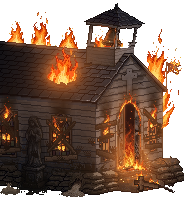
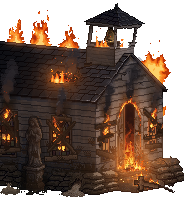
M5: angled base art complete - 0% idle ember strip, 25% stills from frame 1, 0% bell clapper
Claude-Session: https://claude.ai/code/session_01ApSBA2qCbQTkqfybzYcAyg

diff --git a/Assets/Base/_source/base-angled/scripts/anim0.py b/Assets/Base/_source/base-angled/scripts/anim0.py
@@ -1,0 +1,145 @@
+"""0% base idle strip (16 frames, 8 fps; no attack strip at 0%).
+Usage: python3 anim0.py <final/base_000_final_184x200.png> <out_prefix>
+Writes <out>_anim_16f.png (2944x200) and <out>_ember_mask.png (the ember pixels).
+Previews: preview0.py (its GIF writer keeps the ember colours exact; see gifkit.save_gif(exact=...)).
+
+What moves, and nothing else (rubble, bell, statue, sandbags and the cross itself are never touched):
+  * EMBERS (the warm pixels in the rubble + the cracks in the charred cross) are repainted in eight flat hot-ember
+    colours (RAMP: dull red -> red -> orange -> yellow-white). At REST they are dark: mostly the two dullest reds,
+    the hottest drawn pixels a dark red. Rest never changes.
+  * FLARES: a few small hot spots (a seed pixel + the ember pixels touching it) flare to orange / yellow for a few
+    frames and die back, each at its own moment. No patch pulses as a whole and nothing travels across the art.
+    Two of them are the ember cracks on the cross.
+  * FLOATING EMBERS: single pixels that lift off an ember, rise with a slight wobble and cool from yellow to dark
+    red (same ramp, never grey) before they go out.
+Jeremy's rules (2026-11-22): warm hot-ember colours; the pulse must not flow through the artwork; far fewer embers
+pulsing and more random; dark embers show most, with an occasional flicker from a few to the lighter colour; a few
+floating embers; one or two embers on the cross flicker; no grey anywhere in the embers or the floating embers.
+Every event wraps round the loop (frame index modulo 16), so the strip repeats without a jump."""
+import math, os, sys
+import numpy as np
+from PIL import Image
+from scipy import ndimage as ndi
+
+src, out = sys.argv[1], sys.argv[2]
+N = int(os.environ.get("FRAMES", 16))
+SEED = int(os.environ.get("SEED", 11))
+N_FLARES = int(os.environ.get("FLARES", 5))      # hot spots in the rubble (the two on the cross come on top)
+N_SPARKS = int(os.environ.get("SPARKS", 8))
+TAU = math.tau
+
+U = np.array(Image.open(src).convert("RGBA")).astype(float)
+H, W = U.shape[:2]
+r, g, b, a = (U[..., i] for i in range(4))
+yy, xx = np.mgrid[0:H, 0:W]
+
+# the eight flat ember colours, coldest to hottest
+RAMP = np.array([(58, 18, 14), (92, 24, 15), (128, 34, 17), (168, 50, 20),
+                 (208, 84, 26), (240, 128, 38), (255, 176, 66), (255, 220, 130)], np.uint8)
+TOP = len(RAMP) - 1
+
+# ember pixels: clearly warm (red well above green and blue), opaque, not the right-hand sandbag
+sat = (r - np.maximum(g, b)) / np.maximum(r, 1)
+EMBER = (a == 255) & (r > 60) & (sat > 0.28)
+EMBER &= ~((xx >= 152) & (xx <= 172) & (yy >= 155) & (yy <= 170))
+CROSS = EMBER & (yy >= 170)
+LAB, NPATCH = ndi.label(ndi.binary_dilation(EMBER, iterations=1)); LAB = LAB * EMBER
+
+# rest level per pixel from how bright it was drawn (ranked among the embers): mostly dark
+lum = (r + g + b) / 3
+rank = np.zeros((H, W)); vals = np.sort(lum[EMBER])
+rank[EMBER] = np.searchsorted(vals, lum[EMBER]) / max(1, len(vals) - 1)
+REST = np.zeros((H, W), int)
+REST[EMBER & (rank >= 0.45)] = 1
+REST[EMBER & (rank >= 0.85)] = 2                  # nothing rests brighter than dark red: only flares reach orange
+REST[CROSS] = 2                                   # the cross cracks: a steady dark red
+
+rng = np.random.default_rng(SEED)
+
+# ---- flares: seed pixels spread over the rubble (hotter drawn pixels more likely), at least MIN_D apart
+MIN_D = 9
+cand = [(int(y), int(x)) for y, x in zip(*np.nonzero(EMBER & ~CROSS))]
+wts = np.array([0.15 + rank[y, x] ** 2 for y, x in cand]); wts /= wts.sum()
+seeds = []
+for idx in rng.choice(len(cand), size=len(cand), replace=False, p=wts):
+    y, x = cand[idx]
+    if all(max(abs(y - sy), abs(x - sx)) >= MIN_D for sy, sx in seeds): seeds.append((y, x))
+    if len(seeds) == N_FLARES: break
+cy, cx = np.nonzero(CROSS)
+cross_seeds = []
+for y, x in zip(cy, cx):                           # one seed per cross crack
+    if all(LAB[y, x] != LAB[sy, sx] for sy, sx in cross_seeds): cross_seeds.append((int(y), int(x)))
+seeds += cross_seeds[:2]
+
+ENV = [(0.45, 1.0, 0.75, 0.45, 0.2), (0.6, 1.0, 0.6, 0.3), (0.3, 0.7, 1.0, 0.8, 0.5, 0.25), (0.5, 1.0, 0.8, 0.55, 0.3, 0.12)]
+starts = list(rng.choice(N, size=len(seeds), replace=False))          # every flare starts on a different frame
+FLARES = []
+for (sy, sx), f0 in zip(seeds, starts):
+    on_cross = bool(CROSS[sy, sx])
+    FLARES.append(dict(y=sy, x=sx, f0=int(f0), env=ENV[int(rng.integers(len(ENV)))],
+                       peak=int(5 if on_cross else rng.choice([5, 6, 6, 7])), cross=on_cross))
+
+def flare_levels(f):
+    """level per pixel in frame f: rest, lifted near each flare's seed while that flare is alight"""
+    L = REST.copy()
+    for fl in FLARES:
+        k = (f - fl["f0"]) % N
+        if k >= len(fl["env"]): continue
+        e = fl["env"][k]
+        d = np.maximum(np.abs(yy - fl["y"]), np.abs(xx - fl["x"]))
+        same = EMBER & (LAB == LAB[fl["y"], fl["x"]])
+        core = same & (d == 0); ring = same & (d == 1)
+        L[core] = np.maximum(L[core], np.round(REST[core] + e * (fl["peak"] - REST[core])).astype(int))
+        L[ring] = np.maximum(L[ring], np.round(REST[ring] + e * (fl["peak"] - 2 - REST[ring])).astype(int))
+    return np.clip(L, 0, TOP)
+
+# ---- floating embers: lift off an ember pixel (never the cross), rise, wobble, cool down the ramp
+SPARK_LEVELS = (7, 6, 6, 5, 4, 4, 3, 2, 2)
+ey, ex = np.nonzero(EMBER & ~CROSS)
+SPARKS = []
+for j in range(N_SPARKS):
+    q = int(rng.integers(len(ex)))
+    SPARKS.append(dict(f0=int(round(j * N / N_SPARKS + rng.integers(0, 2))) % N, life=int(rng.integers(6, 10)),
+                       x0=int(ex[q]), y0=int(ey[q]), rise=float(rng.uniform(10, 18)), dx=float(rng.uniform(-3, 3)),
+                       wob=float(rng.uniform(0.5, 1.2)), wph=float(rng.random() * TAU)))
+
+def spark_px(f):
+    res = []
+    for sp in SPARKS:
+        k = (f - sp["f0"]) % N
+        if k >= sp["life"]: continue
+        u = k / (sp["life"] - 1)
+        x = int(round(sp["x0"] + sp["dx"] * u + sp["wob"] * math.sin(sp["wph"] + u * 5)))
+        y = int(round(sp["y0"] - 2 - sp["rise"] * u))
+        res.append((y, x, SPARK_LEVELS[min(len(SPARK_LEVELS) - 1, int(u * len(SPARK_LEVELS)))]))
+    return res
+
+def frame(f):
+    o = U.astype(np.uint8).copy()
+    L = flare_levels(f)
+    o[..., :3][EMBER] = RAMP[L[EMBER]]
+    for y, x, lv in spark_px(f):
+        o[y, x, :3] = RAMP[lv]; o[y, x, 3] = 255
+    return o
+
+if __name__ == "__main__":
+    frames = [frame(f) for f in range(N)]
+    strip = Image.new("RGBA", (W * N, H), (0, 0, 0, 0))
+    for i, fr in enumerate(frames): strip.paste(Image.fromarray(fr, "RGBA"), (i * W, 0))
+    strip.save(out + f"_anim_{N}f.png")
+    Image.fromarray((EMBER * 255).astype(np.uint8)).save(out + "_ember_mask.png")
+    base = U.astype(np.uint8)
+    ramp_set = {tuple(int(v) for v in c) for c in RAMP}
+    outside = 0; off_ramp = 0; bright = []
+    for f, fr in enumerate(frames):
+        sp = np.zeros((H, W), bool)
+        for y, x, _ in spark_px(f): sp[y, x] = True
+        diff = (fr != base).any(axis=2)
+        outside += int((diff & ~EMBER & ~sp).sum())
+        for y, x in zip(*np.nonzero(EMBER | sp)):
+            if tuple(int(v) for v in fr[y, x, :3]) not in ramp_set: off_ramp += 1
+        bright.append(int((flare_levels(f)[EMBER] >= 4).sum()))
+    print("ember px", int(EMBER.sum()), "| rest levels 0/1/2:", [int((REST[EMBER] == k).sum()) for k in range(3)])
+    print("flares:", [(fl["x"], fl["y"], "f%d" % fl["f0"], "peak%d" % fl["peak"], "cross" if fl["cross"] else "") for fl in FLARES])
+    print("bright (orange or hotter) ember px per frame:", bright)
+    print("px changed outside embers + floating embers (must be 0):", outside, "| ember / floating px not in the 8 flat colours (must be 0):", off_ramp)

diff --git a/Assets/Base/_source/base-angled/scripts/preview0.py b/Assets/Base/_source/base-angled/scripts/preview0.py
@@ -1,0 +1,30 @@
+"""Previews for the 0% idle strip.  Usage: python3 preview0.py <strip_16f.png> <still.png> <out_prefix>
+Writes <out>_full.gif (2x), <out>_closeup.gif (4x of the rubble) and checks that every pixel the animation changes
+is shown in the GIFs in exactly the strip's colour (no palette greying)."""
+import sys, os
+import numpy as np
+from PIL import Image
+sys.path.insert(0, os.path.dirname(os.path.abspath(__file__)))
+import gifkit
+strip_p, still_p, out = sys.argv[1:4]
+W, H, N, BG = 184, 200, 16, (30, 34, 48)
+S = Image.open(strip_p).convert("RGBA"); base = np.array(Image.open(still_p).convert("RGBA"))
+def over(fr):
+    bg = Image.new("RGBA", fr.size, BG + (255,)); bg.alpha_composite(fr); return bg.convert("RGB")
+frames = [S.crop((i * W, 0, (i + 1) * W, H)) for i in range(N)]
+changed = [(np.array(f) != base).any(axis=2) for f in frames]
+exact = sorted({tuple(int(v) for v in np.array(f)[y, x, :3]) for f, c in zip(frames, changed) for y, x in zip(*np.nonzero(c))})
+BOX = (14, 88, 174, 196)
+full = [over(f).resize((W * 2, H * 2), Image.NEAREST) for f in frames]
+close = [over(f).crop(BOX).resize(((BOX[2] - BOX[0]) * 4, (BOX[3] - BOX[1]) * 4), Image.NEAREST) for f in frames]
+gifkit.save_gif(full, out + "_full.gif", 8, exact=exact); gifkit.save_gif(close, out + "_closeup.gif", 8, exact=exact)
+bad = 0; tot = 0
+g = Image.open(out + "_full.gif")
+for i in range(N):
+    g.seek(i); G = np.array(g.convert("RGB"))[::2, ::2]; T = np.array(over(frames[i]))
+    tot += int(changed[i].sum()); bad += int((changed[i] & (G != T).any(axis=2)).sum())
+g = Image.open(out + "_closeup.gif")
+for i in range(N):
+    g.seek(i); G = np.array(g.convert("RGB"))[::4, ::4]; T = np.array(over(frames[i]).crop(BOX)); c = changed[i][BOX[1]:BOX[3], BOX[0]:BOX[2]]
+    bad += int((c & (G != T).any(axis=2)).sum())
+print("animated colours kept exact:", len(exact), "| animated px:", tot, "| shown in a wrong colour in the GIFs (must be 0):", bad)

diff --git a/Assets/Base/_source/base-angled/scripts/stills25.py b/Assets/Base/_source/base-angled/scripts/stills25.py
@@ -1,0 +1,26 @@
+"""25% stills from frame 1 of the strips (2026-11-22; Jeremy: the stills show the opening smoke).
+Usage: python3 stills25.py <final/base_025_anim_final_16f.png> <flames2_16f.png> <d25/base_025_smoke_openings_layer_16f.png> <out_dir>
+  flames2_16f.png = the UNLIT 25% strip written by anim25.py (<out>_flames2_16f.png); run anim25.py first:
+    python3 anim25.py final/base_025_unlit_final_184x200.png d25/base_025_v3_unlit_flames.png <tmp>/b25
+  (its _lit_16f.png must equal d25/base_025_lit_wip_16f.png pixel for pixel; it did on 2026-11-22).
+Writes base_025_lit_final_184x200.png = frame 1 of the idle strip (firelight + opening smoke), and
+       base_025_unlit_final_184x200.png = frame 1 of the unlit strip with the same opening smoke composited the way
+       smoke25_openings.py does it."""
+import sys, os
+import numpy as np
+from PIL import Image
+anim_p, flames_p, smoke_p, out = sys.argv[1:5]
+W = 184
+def f0(p): return np.array(Image.open(p).convert("RGBA"))[:, :W].copy()
+lay = f0(smoke_p); A = lay[..., 3] / 255.0
+def comp(base):
+    o = base.copy(); on = A > 0; opq = on & (base[..., 3] == 255); sky = on & (base[..., 3] == 0)
+    assert not (on & (base[..., 3] > 0) & (base[..., 3] < 255)).any()
+    for j in range(3):
+        o[..., j][opq] = np.round(base[..., j][opq] * (1 - A[opq]) + lay[..., j][opq] * A[opq]).astype(np.uint8)
+        o[..., j][sky] = lay[..., j][sky]
+    o[..., 3][sky] = lay[..., 3][sky]
+    return o
+Image.fromarray(f0(anim_p)).save(os.path.join(out, "base_025_lit_final_184x200.png"))
+Image.fromarray(comp(f0(flames_p))).save(os.path.join(out, "base_025_unlit_final_184x200.png"))
+print("written to", out)

diff --git a/Assets/Base/_source/base-angled/scripts/d0_clapper.py b/Assets/Base/_source/base-angled/scripts/d0_clapper.py
@@ -1,0 +1,22 @@
+"""0% still: move the fallen bell's clapper to the right (Jeremy 2026-11-22: the bell is no longer upright -- it leans
+with its crown to the right -- so the clapper must hang straight down from the crown, right of the mouth's middle).
+Usage: python3 d0_clapper.py <d0/base_000_v5.png> <out.png>      (v5 = the still as approved on 2026-11-20)
+The drawn clapper (ball x117-119 y131-133, stem above it) is moved DX px right unchanged; its old place is closed
+with the mouth's own dark inside colours and the lower lip is carried through. Nothing else is touched."""
+import sys, os
+import numpy as np
+from PIL import Image
+src, dst = sys.argv[1], sys.argv[2]
+DX = int(os.environ.get("DX", 8))
+a = np.array(Image.open(src).convert("RGBA")); o = a.copy()
+CLAPPER = [(119, 129), (118, 130), (119, 130)] + [(x, y) for y in (131, 132, 133) for x in (117, 118, 119)]
+# close the old place: inside-of-the-mouth darks taken from the same rows just right of it, the lip carried through
+FILL = {(119, 129): (19, 20, 22), (118, 130): (16, 17, 19), (119, 130): (18, 19, 21),
+        (117, 131): (21, 21, 21), (118, 131): (23, 23, 22), (119, 131): (22, 22, 20),
+        (117, 132): (28, 28, 25), (118, 132): (24, 24, 25), (119, 132): (20, 20, 19),
+        (117, 133): (46, 43, 36), (118, 133): (31, 30, 26), (119, 133): (26, 25, 23)}
+for (x, y), c in FILL.items(): o[y, x, :3] = c
+for x, y in CLAPPER: o[y, x + DX] = a[y, x]
+Image.fromarray(o).save(dst)
+d = (o != a).any(axis=2); ys, xs = np.nonzero(d)
+print("px changed", int(d.sum()), "x", xs.min(), xs.max(), "y", ys.min(), ys.max())

diff --git a/Assets/Base/_source/base-angled/scripts/gifkit.py b/Assets/Base/_source/base-angled/scripts/gifkit.py
@@ -1,9 +1,18 @@
-"""Shared-palette GIF writer: one palette for every frame, no dithering, so still pixels never shift colour."""
+"""Shared-palette GIF writer: one palette for every frame, no dithering, so still pixels never shift colour.
+exact = RGB colours that must survive untouched (2026-11-22: at 0% the few bright ember / floating-ember pixels are so
+rare that the 256-colour reduction dropped them and showed them GREY in the preview; the strip itself was right).
+Pass every colour of small animated details there; they get their own palette slots."""
 from PIL import Image
-def save_gif(frames_rgb, name, fps):
+def save_gif(frames_rgb, name, fps, exact=None):
     W, H = frames_rgb[0].size
     mosaic = Image.new("RGB", (W, H * len(frames_rgb)))
     for i, f in enumerate(frames_rgb): mosaic.paste(f, (0, H * i))
-    pal = mosaic.quantize(colors=256, method=Image.Quantize.MEDIANCUT, dither=Image.Dither.NONE)
+    exact = [tuple(int(v) for v in c) for c in (exact or [])]
+    pal = mosaic.quantize(colors=256 - len(exact), method=Image.Quantize.MEDIANCUT, dither=Image.Dither.NONE)
+    if exact:
+        p = pal.getpalette()[:3 * (256 - len(exact))]
+        p += [0] * (3 * (256 - len(exact)) - len(p))
+        for c in exact: p += list(c)
+        pal = Image.new("P", (1, 1)); pal.putpalette(p)
     q = [f.quantize(palette=pal, dither=Image.Dither.NONE) for f in frames_rgb]
     q[0].save(name, save_all=True, append_images=q[1:], duration=1000 // fps, loop=0, optimize=False, disposal=1)

diff --git a/docs/ART_STYLE.md b/docs/ART_STYLE.md
@@ -30,14 +30,15 @@ Hit feedback: brightness flash on every real hit + a 2px side shake at most once
 
 ### Angled church base redraw (ART DONE 2026-11-20; NOT wired -- the game still loads the 80x200 front-only art above)
 - **Canvas:** 184x200 RGBA, drawn at 2x (368x400) on desktop; phones crop from the LEFT and keep ~94 art px (door, steps, belfry, flag). Camera: orthographic, yaw 35 deg, elevation 8 deg (eye level like the village), 9.6 px/ft; front faces right. Layout guides + scripts: `Assets/Base/_source/base-angled/scripts/`.
-- **Finals** (`_source/base-angled/final/`): `base_100`, `base_075` (86 see-through glow px: lantern + window beams), `base_050_unlit` + `base_050_anim_final_8f` (8 frames, 6 fps), `base_025_unlit` (flames, no firelight) + `base_025_lit` (still with light baked in), `base_000` (rubble). Statue mask: `d0/statue_mask_exact.png`.
+- **Finals** (`_source/base-angled/final/`): `base_100`, `base_075` (86 see-through glow px: lantern + window beams), `base_050_unlit` + `base_050_anim_final_8f` (8 frames, 6 fps), `base_025_unlit` (flames, no firelight) + `base_025_lit` (still with light baked in) -- both REBUILT 2026-11-22 from frame 1 of the strips (no flag, roof hole, standard bell, opening smoke; `scripts/stills25.py`), `base_000` (rubble; bell clapper moved 8 px right on 2026-11-22, `scripts/d0_clapper.py`, source before the move = `d0/base_000_v5.png`). Statue mask: `d0/statue_mask_exact.png`.
 - **Look:** white country church, neutral white siding (no blue cast), stained glass at full health, belfry with the bell centred and a small cross on the gable centred over the door, prayer statue, sandbags both sides of the steps, lantern post, survivor flag on the right corner.
 - **Rules (Jeremy):** boarded windows always vary (count, spacing, angles); damage, boards, mud and handprints are drawn ON TOP of the art, never pasted boxes; see-through glow only on light sources (lamps, fire); muted, gritty, never cartoonish; flames come OUT of openings (roof holes, windows, doorway), never stamped copies on surfaces.
 - **Fire method:** PixelLab inpaint-v3 over a mask at each opening, keep only the fire-coloured pixels; firelight = screen blend from a blurred mask of the actual flame pixels (warm surfaces near the fire, far side darker), held back only on the doorway's dark depths with a SOFT mask. Never additive light (shimmer).
-- **Animations (2026-11-21; 100 / 75 / 50 / 25 done, 0 next):** per state an idle strip and an "under attack" strip (bell rings; none for 0%), 16 frames x 184x200 = 2944x200, 8 fps. Scripts `_source/base-angled/scripts/`: `anim100.py`, `anim_base.py`, `anim50_16.py`, shared `bell.py` / `smoke.py` / `gifkit.py`. Rules (Jeremy): bell hangs under the roof point (x=110), symmetric, curved lip, swings evenly +-20 deg, post in front, ~30% lighter than the drawn bell; lantern swings on its bracket (whole-pixel shift) and flickers -- only light sources flicker (lantern, halo, beams, hole light, roof hole), never the surfaces they light; flag waves with the star intact; smoke = fire smoke (charcoal / sooty brown, dense at the mouth, moonlit billow tops, firelit underside), attached at the tip of its opening, every column different, front-wall smoke slower and darker; soot marks need smoke above them. GIF previews only through `gifkit.save_gif` (shared palette).
+- **Animations (2026-11-21/22; 100 / 75 / 50 / 25 / 0 all done):** per state an idle strip and an "under attack" strip (bell rings; none for 0%), 16 frames x 184x200 = 2944x200, 8 fps. Scripts `_source/base-angled/scripts/`: `anim100.py`, `anim_base.py`, `anim50_16.py`, shared `bell.py` / `smoke.py` / `gifkit.py`. Rules (Jeremy): bell hangs under the roof point (x=110), symmetric, curved lip, swings evenly +-20 deg, post in front, ~30% lighter than the drawn bell; lantern swings on its bracket (whole-pixel shift) and flickers -- only light sources flicker (lantern, halo, beams, hole light, roof hole), never the surfaces they light; flag waves with the star intact; smoke = fire smoke (charcoal / sooty brown, dense at the mouth, moonlit billow tops, firelit underside), attached at the tip of its opening, every column different, front-wall smoke slower and darker; soot marks need smoke above them. GIF previews only through `gifkit.save_gif` (shared palette).
 - **25% strips (2026-11-21, `final/base_025_anim_final_16f.png` + `base_025_attack_final_16f.png`; scripts `anim25.py`, `flamefx.py`, `firelight25.py`, `preview25.py`):** they differ from the 25% stills on purpose -- flag and pole gone (burned away), the big roof flame replaced by a roof hole (red glow inside, charred frame with breathing coals, three small tongues), smaller belfry and side-wall fires, standard bell in a belfry rebuilt from the 50% art. Flame rules (Jeremy): loose flame pieces drift UP and die out, never hover; every tongue moves; no dark slots or straight edges low in a flame; small fires are tongues that lick (bulge travels up, tongue stretches, tip breaks off, drops back; 8 frames); a floating piece is a small flame that shrinks evenly to nothing. Cinders: a few per opening (about the roof hole's 8), varied in brightness and colour, never on the sandbags, bottom two steps, cross or lower far-left window. Firelight: the lit still's recipe driven by each frame's flames through wide blurs (never per pixel), pulse about 12% of total light; the statue has a fixed extra light; window boards stay darker than the siding with a lit edge and a short shadow; the bell is lit by a multiply on its own colours (keeps its curve), brighter as it swings toward the flames. The two 25% stills must be regenerated from frame 1 of the idle strip.
 - **Smoke at 25%, from the openings (DONE 2026-11-22, in the strips; `scripts/smoke25_openings.py`):** six short columns (doorway, front-left window, front-right window, roof hole, far-left window, side window). Rules (Jeremy): every column leans the same way (tops to the right, 1 px across per 5 px up); a column may be short, or missing, where a fire sits above its opening; it starts at the flame tip of its opening (roof hole: from the coals, not the tongues) and never covers a flame or cinder pixel; heavier and darker than 50%, but smoke near a fire is lit by it, never sooty-black beside a flame; over the dark roof / side wall the column is firelit at its base (darker smoke does not show there); a column must never end on a straight line (start it behind the flame tip). Input = the smoke-free strips in `d25/` (never the finals).
 - **Smoke at 25%, the layer behind the church (DONE 2026-11-22; `final/base_025_smoke_layer_final_40f.png`, `scripts/smoke25_layer.py` + `smoke25_layer_pl.py`):** a separate sheet, 40 frames in an 8 x 5 grid, 304x136 art px each, 8 fps, top-left = the church frame's top-left; drawn directly behind the church and IN FRONT of the village (never behind the buildings, and it must not cover them). PixelLab drew the plume from Jeremy's reference ("Draft 2") and PixelLab animated it (frame by frame, at 1.5x size so the inner shapes survive); code only places, cleans, joins, retimes and lights. Rules (Jeremy): it rises from behind the whole roof line and from off the left edge, never from each visible flame, and leaves through the TOP edge of the screen (the church frame fills the canvas height); flat tones, hard edges, the in-game still's smoke colours; finer billows, not big flat lobes; no tiny specks; no balls, fingers, straight edges or triangles; it must billow and roll (never a drawing that slides), at an even speed everywhere; the fire lights the smoke near the flames with a flat colour swap whose edge moves with the flames and the billows; no line that stays in the same place in every frame. The code-only fallback (`scripts/smoke25.py`) was not needed. **Taller version = the sheet to wire (2026-11-22; `final/base_025_smoke_layer_tall_final_80f.png`, `scripts/smoke25_layer_tall.py` + `smoke25_layer_tall_pl.py`):** the game canvas is taller than the 400 px church on many screens (up to 711 px on a 4K screen), so the plume continues 170 art rows above the church frame's top: 80 frames in an 8 x 10 grid, 448x306 art px each (rows -170..135), 8 fps; top edge 340 px above the church frame's top, clipped by the canvas. PixelLab continued the same drawing upward and animated it in three more windows; the approved frames are inside it unchanged except their top-right corner. Extra rules learned: the plume is a band rising to the right with open sky on its upper left (the approved animation shows that sky in most frames); the upper part plays at the same speed as the lower (hence the 10 s loop); where two animations meet, the hand-over follows the smoke's outlines (never a straight row), and no piece may keep the same shape every time it appears (Jeremy spotted a fixed rounded corner).
+- **0% idle strip (DONE 2026-11-22, `final/base_000_anim_final_16f.png`, 16 frames, 8 fps, no attack strip; scripts `anim0.py` (strip) + `preview0.py` (GIFs + colour check); previews `d0/base_000_anim_full.gif` / `_closeup.gif`):** ONLY the embers and floating embers change; rubble, bell, statue, sandbags and the cross never do. Embers are repainted in eight flat hot-ember colours (dull red -> red -> orange -> yellow-white). Rules (Jeremy): warm hot-ember colours, never grey; at rest they are DARK (three dark reds, nothing rests at orange); only a few small hot spots (a seed pixel + its touching ember pixels, not whole patches) flare to orange / yellow for a few frames, each at its own moment -- no pulse flowing through the artwork; two of the flares are the ember cracks on the cross; eight single-pixel floating embers lift off the embers, rise 10-18 px with a slight wobble and cool down the same ramp. The fallen bell's clapper hangs straight down from the crown, right of the mouth's middle (the bell leans right). GIF previews: rare bright pixels get dropped by the 256-colour reduction and show GREY in the GIF while the strip is right -- pass their colours to `gifkit.save_gif(..., exact=[...])` (preview0.py does, and checks every animated pixel).
 
 ## Zombie Skins by Category (8 life domains)
 | Category | Zombie look |

diff --git a/docs/ROADMAP.md b/docs/ROADMAP.md
@@ -345,8 +345,8 @@ Scoped from a structured live playtest.
     - [x] 25% idle + attack strips -- DONE 2026-11-21 (Claude app, Fable 5.2; DECISIONS 2026-11-21 "25% base strips"): `final/base_025_anim_final_16f.png` + `base_025_attack_final_16f.png`, 16 frames, 8 fps. Moving flames, cinders, firelight that follows the flames, roof hole with coals (the big roof flame is gone), flag removed, standard bell (rings in the attack strip). NO smoke in the strips. Scripts: `anim25.py`, `flamefx.py`, `firelight25.py`, `preview25.py`.
     - [x] 25% smoke INSIDE the strips -- DONE 2026-11-22 (Claude app, Fable 5.2; DECISIONS 2026-11-22): six short columns (doorway, front-left, front-right, roof hole, far-left, side window), all leaning the same way, never over a flame or cinder pixel; baked into `final/base_025_anim_final_16f.png` + `base_025_attack_final_16f.png`. Script `smoke25_openings.py` (run it ONLY on the smoke-free strips kept in `d25/base_025_lit_wip_16f.png` / `base_025_attack_lit_wip_16f.png`).
     - [x] 25% smoke LAYER behind the church -- DONE 2026-11-22 (the PixelLab test worked; DECISIONS 2026-11-22): `final/base_025_smoke_layer_final_40f.png`, 40 frames in an 8 x 5 grid, 304x136 art px each, 8 fps; PixelLab drew the plume (Draft 2) and animated it, code places / cleans / joins / retimes / lights it (`smoke25_layer.py`, PixelLab calls in `smoke25_layer_pl.py`, mock `ingame_mock3.py`). In FRONT of the buildings, never behind them (Jeremy). The code-only fallback (`smoke25.py`) is no longer needed. EXTENDED UPWARD the same day for taller screens (the canvas is up to 711 px on a 4K screen; the church is 400 px): `final/base_025_smoke_layer_tall_final_80f.png` is the sheet to wire (`smoke25_layer_tall.py`, `smoke25_layer_tall_pl.py`); the 40-frame sheet stays as its approved lower part.
-    - [ ] Regenerate the two 25% stills (`base_025_unlit_final`, `base_025_lit_final`) from frame 1 of the idle strip: they still show the old fires (flag, big roof flame, tilted bell). Since 2026-11-22 the strips also carry the opening smoke: DECIDED 2026-11-22 after the wrap-up (Jeremy: "yes to smoke from the openings"; "the 25% should always show the smoke when it is active"): the stills show the opening smoke, so take frame 1 of the strips in `final/`.
-    - [ ] 0% idle strip only (slow ember glow; no attack strip).
+    - [x] DONE 2026-11-22 (Claude app, Opus 5.5; `scripts/stills25.py`; lit = frame 1 of the idle strip exactly, unlit = frame 1 of the unlit strip + the same opening smoke). Regenerate the two 25% stills (`base_025_unlit_final`, `base_025_lit_final`) from frame 1 of the idle strip: they still show the old fires (flag, big roof flame, tilted bell). Since 2026-11-22 the strips also carry the opening smoke: DECIDED 2026-11-22 after the wrap-up (Jeremy: "yes to smoke from the openings"; "the 25% should always show the smoke when it is active"): the stills show the opening smoke, so take frame 1 of the strips in `final/`.
+    - [x] 0% idle strip only (slow ember glow; no attack strip) -- DONE 2026-11-22 (Claude app, Opus 5.5 / Fable 5.2; DECISIONS 2026-11-22 "0% idle"): `final/base_000_anim_final_16f.png`, 16 frames, 8 fps; dark resting embers, a few small flares (two on the cross), eight floating embers; `scripts/anim0.py`. Also: bell clapper moved right on the 0% still (`final/base_000_final_184x200.png`, `scripts/d0_clapper.py`). ALL base art is now done: the wiring task below is next.
     - [ ] Wire into the game (Sonnet; also the 25% smoke layer as one more element behind `#base` once it exists): `Assets/Base/` stills + strips (all 16 frames / 2 s; show the attack strip while any zombie is currently dealing damage to the base, idle otherwise (Jeremy, 2026-11-21)), `#base` width + per-screen `--base-w` crop, barricade position, hero spotlight door centre, `baseAnim` test frame width, sw.js; phone + laptop check (HUD over the belfry). SMOKE LAYER (2026-11-22, taller sheet): one element directly behind `#base` and in front of the village (same z-index as `#base`, earlier in the DOM: with z-index auto it sits under the scenery and looks washed out); `final/base_025_smoke_layer_tall_final_80f.png`: 80 frames in a grid 8 across x 10 down, each 448x306 art px, 8 fps (10 s loop); on screen 896x612 px at 2x, left edge on the church frame's left edge, TOP EDGE 340 px ABOVE the church frame's top (frame rows -170..135, row 0 = church top), clipped by the canvas top; it moves with the church when the church is cropped; shown only at 25%; covers canvases up to 738 px tall, on a taller one lift it by (canvas height - 738) px; background stepped through the 8 x 10 grid; re-check 1024 wide + phone that it does not cover a building.
   - [ ] **V7 village: remaining buildings (mapping FINAL 2026-10-29, see ART_STYLE "MAPPING CONFIRMED"):** `bestdays` windmill (PLACEHOLDER wired in the new FAR row 2026-10-30, sw v143; real T1-T5 when PixelLab credits return Nov 7), Memorial obelisk (no flag; art done + **WIRED 2026-11-08**, sw v283: `Assets/Village/memorial_t1..t5.png`, 128x192, stage = floor of the average of the 8 buildings' all-time best tiers from the saved `bestVillageTiers`; see ART_STYLE "Memorial obelisk T1-T5" and DECISIONS "Memorial wiring"; phone check still open). Graveyard hill art BUILT 2026-11-08 (`Assets/scene/graveyard-hill.png`). (`nights` radio tower, `lurkers` boxing gym and `heroes` high school are DONE, see above.) 128x128 unless height is needed. **Placement is decided building by building as each one's art is generated and put on the canvas (Jeremy, 2026-10-30); no separate layout session.**
   - [x] **V7 village: HUD village button + Village panel, small-x card close, legacy slot helpers removed (DONE 2026-10-30 late night, Claude app session; sw v150; Jest 100 suites / 2,328 green in a cloud clone; live-checked headless at 817x296 / 390x844 / 1366x720, no console errors; NOT phone-checked).** Icon-only button after Lv; panel lists all eight buildings (tier + progress), rows open the card on top; village/level/base-health panels close with a corner x / tap outside / Esc. See DECISIONS 2026-10-30 (late night).

diff --git a/sessions/HANDOFF.md b/sessions/HANDOFF.md
@@ -11,6 +11,12 @@ Newest entry at TOP. Every session appends one entry before ending (use `/end-se
 **Watch out:** gotchas discovered this session
 ```
 
+## 2026-11-22 — Base art COMPLETE: 25% stills rebuilt, 0% idle strip (embers), 0% bell clapper moved (Opus 5.5 / Fable 5.2, Claude app)
+**Did:** ART ONLY, nothing wired. (1) 25% STILLS: `final/base_025_lit_final_184x200.png` (= frame 1 of the idle strip, pixel for pixel) and `final/base_025_unlit_final_184x200.png` (frame 1 of anim25.py's unlit strip + the opening smoke), new `scripts/stills25.py`; they now match the strips (no flag, roof hole, standard bell, opening smoke). Before rebuilding, `anim25.py` was re-run and its lit strip matched `d25/base_025_lit_wip_16f.png` pixel for pixel. Before/after: `d25/stills_25_before_after.png`. (2) 0% IDLE STRIP: `final/base_000_anim_final_16f.png` (16 frames x 184x200, 8 fps; no attack strip), new `scripts/anim0.py` + `scripts/preview0.py`, previews `d0/base_000_anim_full.gif` / `d0/base_000_anim_closeup.gif`. Embers rest in three dark reds; five small hot spots in the rubble + the two ember cracks on the cross flare to orange/yellow briefly at their own moments; eight single-pixel floating embers rise and cool. Approved after five passes ("that looks good"). (3) 0% STILL: bell clapper moved 8 px right (`scripts/d0_clapper.py`, source `d0/base_000_v5.png`; before/after `d0/bell_clapper_before_after.png`); the strip is built on it. (4) `scripts/gifkit.py`: `save_gif(..., exact=[colours])` keeps small bright details exact (old calls unchanged). Docs: ART_STYLE (0% bullet, finals line), ROADMAP (both items checked), DECISIONS 2026-11-22 "0% idle strip + 25% stills".
+**State:** Game unchanged (still loads the old 80x200 art). No game code touched, so tests were not run. `device_bash` failed again (1 try); everything went through stage / commit and was read back (PNGs pixel-identical, scripts byte-identical, GIFs frame-identical). No PixelLab used.
+**Next:** the WIRING task (Sonnet), ROADMAP "Wire into the game" under the angled base item and the 2026-11-22 smoke entry below: stills + strips for 100 / 75 / 50 / 25 / 0 (0% = idle only), attack strip while any zombie is currently dealing damage to the base, `#base` width + per-screen `--base-w` crop, barricade, hero spotlight door centre, `baseAnim` test frame width, sw.js, the 25% smoke layer element, phone + laptop check (HUD over the belfry).
+**Watch out:** GIF previews can turn rare bright pixels GREY (palette reduction); the strip is right. Pass the animated colours to `gifkit.save_gif(exact=...)` (preview0.py does it and checks). `anim0.py` must be run on the CLAPPER-MOVED still (`final/base_000_final_184x200.png`), not on `d0/base_000_v5.png`. Jeremy's 0% rules: embers mostly dark, only a few small flickers, nothing flows across the art, no grey, floating embers welcome. Leftover work files from the previous session are still in `d25/` (see below).
+
 ## 2026-11-22 — 25% smoke done: columns from the openings (in the strips) + the PixelLab smoke layer behind the church, extended upward for taller screens (Fable 5.2, Claude app)
 **Did:** ART ONLY, nothing wired. (1) SMOKE IN THE 25% STRIPS: `final/base_025_anim_final_16f.png` and `final/base_025_attack_final_16f.png` now have six short smoke columns baked in (doorway, front-left window, front-right window, roof hole, far-left window, side window), built with new `scripts/smoke25_openings.py` and approved by Jeremy one column at a time from close-up GIFs. The smoke-free strips stay in `d25/base_025_lit_wip_16f.png` / `d25/base_025_attack_lit_wip_16f.png` (pixel-identical to yesterday's finals); the smoke alone is `d25/base_025_smoke_openings_layer_16f.png`. (2) SMOKE LAYER BEHIND THE CHURCH (the PixelLab test: it worked): `final/base_025_smoke_layer_final_40f.png`, 40 frames in a grid of 8 x 5, each 304x136 art px, 8 fps (5 s loop), the frame's top-left = the church frame's top-left; unlit copy `d25/base_025_smoke_layer_unlit_40f.png`. PixelLab drew the plume ("Draft 2", `d25/smoke_layer_draft2_pixellab.png`) and PixelLab animated it (two 40-frame runs at 1.5x size, `d25/smoke_layer_pl_left_41f.png` + `_right_41f.png`); code only places, cleans, joins, retimes and lights it (`scripts/smoke25_layer.py`, which rebuilds the final sheet pixel for pixel; the PixelLab calls are recorded in `scripts/smoke25_layer_pl.py`). Approved in the game mock (`scripts/ingame_mock3.py`, `d25/base_025_smoke_layer_ingame_mock.gif`): "i'm good with this". ROADMAP: both 25% smoke items checked; ART_STYLE "Angled church base redraw" (two smoke bullets rewritten); DECISIONS 2026-11-22.
 **State:** Game unchanged (still loads the old 80x200 art). No game code touched, so tests were not run. The bridge shell (`device_bash`) failed again (2 tries, then left alone); everything went through stage / commit and every file was read back (images pixel-identical, scripts and the GIF byte-identical). PixelLab: 450 generations for the first layer, 141 more for the taller one (8,009 left).

diff --git a/docs/DECISIONS.md b/docs/DECISIONS.md
@@ -4,6 +4,13 @@ Append-only. Newest at top. Format: date — decision — why — alternatives r
 
 ---
 
+## 2026-11-22 (0% idle strip + 25% stills; base art complete) -- Claude app session, Opus 5.5 then Fable 5.2; Jeremy ("lets continue the next step on our base animation rework")
+
+- **25% stills rebuilt from frame 1 of the strips** -- `final/base_025_lit_final_184x200.png` = frame 1 of `base_025_anim_final_16f.png` exactly; `base_025_unlit_final_184x200.png` = frame 1 of anim25.py's unlit strip with the same opening smoke (`scripts/stills25.py`). Why: the old stills still showed the flag, the big roof flame and the tilted bell, so the still (shown when animation is off) would not match the animation. Jeremy checked the right edge is not cut off (it was only the preview canvas).
+- **0% idle strip** -- `final/base_000_anim_final_16f.png`, 16 frames, 8 fps, no attack strip (`scripts/anim0.py`). Only light sources change: embers + floating embers. Reached in five passes on Jeremy's feedback: (1) a smooth pulse that drifted across the rubble -> "warmer colors from hot embers and not have it flow through the artwork", wants a few rare drifting sparks; (2) per-patch pulse on a hot-ember ramp + 3 sparks -> "far fewer and more random", more floating embers; (3) 5 irregular patches + 8 floating embers -> too many brighter pieces stayed on: "more of the darker ones show the most with the occasional flicker from a few to the lighter color"; (4) dark rest -> one or two embers on the cross should flicker, and the pulsing / floating embers looked GREY in places; (5) eight flat ember colours, everything rests in three dark reds, five small hot spots + the two cross cracks flare briefly at their own moments, eight floating embers cool down the ramp: approved ("that looks good"). Rejected: whole-patch pulsing (reads as the art breathing), any travelling wave, resting embers at orange.
+- **The grey was the preview, not the art** -- the strip never had grey ember pixels; the shared-palette GIF writer (256 colours, median cut over all frames) dropped the few rare bright ember colours and mapped them to a grey-brown. `gifkit.save_gif` now takes `exact=[colours]` that get their own palette slots; `preview0.py` passes every animated colour and checks that every animated pixel appears in its true colour in the GIF. Use `exact` for any future preview with small bright details.
+- **0% bell clapper moved 8 px right** (`scripts/d0_clapper.py`, from `d0/base_000_v5.png`, 24 px changed) -- Jeremy: "since the bell is no longer upright, the little piece that hangs in the middle should be more to the right". The fallen bell leans right, so the clapper hangs straight down from the crown, right of the mouth's middle. The strip is built on the moved still.
+
 ## 2026-11-22 (25% smoke: columns from the openings + the PixelLab smoke layer behind the church) -- Claude app session, Fable 5.2, 2026-11-21 evening to 2026-11-22; Jeremy ("Let's work on Deadline: smoke for the 25% church base. Two parts, in this order.")
 - **Part 1, smoke inside the 25% strips = six SHORT columns, each approved alone from a close-up GIF** (`scripts/smoke25_openings.py`). Finding that shaped it: at 25% a fire sits above every opening, so a column that must not muddy flames has 10-37 px of room (50% columns rose 28-46 px). Jeremy: "short is fine but the direction of the smoke columns need to be uniform ... We don't have to have smoke on every one of the windows if there isn't room." -> every column is one straight tilt, tops to the right, 0.2 px across per px of rise; "heavier" comes from width, density and darker tones, not height. Side window added (his soot rule: a soot mark needs smoke above it; "yes if it fits"). Roof hole: smoke rises from the coals on the right of the hole, not the tongues on the left (10 px of room there) -- "keep it".
 - **Opening smoke never touches a flame or cinder pixel**: smoke is skipped on any pixel that is flame or cinder in that frame, so flames and cinders show through it. Checked on both strips, all 16 frames: 0 pixels changed outside the smoke, 0 flame / cinder pixels changed, 0 in the belfry; idle and attack changed in exactly the same pixels. About 15 px per frame at the top of the doorway column are see-through smoke over sky (as in the 50% strips; the 25% strips had only solid or empty pixels before).
